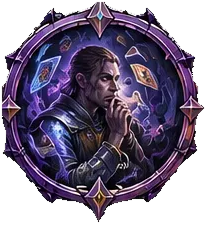
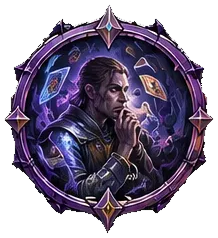
Fix emblem cropping: full badge extent, no neighbor bleed, no interior holes
The fixed-grid-rectangle crop clipped several badges' spikes where they
extended past the naive cell boundary, and diagnosing that revealed
entire rows of badges are connected as one blob where their frames
touch (confirmed: e.g. all 6 badges in row 1 columns 2-7 were a single
connected component) -- a plain per-cell crop can't separate those
correctly.

Replaced the grid crop with watershed segmentation seeded at each
cell's center: floods outward along the shape's own medial structure so
touching badges split at their natural ridge instead of an arbitrary
straight line, giving each badge its true full extent with no sliver of
its neighbor. Also fixed a regression from the same rewrite -- a bright
highlight or compression artifact inside a badge (grayscale, high
brightness) was being misclassified as background wherever it wasn't
re-checked for border-connectivity, punching small transparent holes in
the art; background now only counts if it's connected to the actual
image border, matching the outer-edge cleanup from the previous commit.

diff --git a/cloudflare-worker/relay.js b/cloudflare-worker/relay.js
@@ -1917,7 +1917,7 @@ function sumField(rows, field) {
 // neighboring badge's frame along with the real one. Re-cropped with a
 // nearest-seed (watershed) split instead of a fixed grid, so a touching
 // pixel is assigned to whichever badge it actually belongs to.
-const EMBLEM_CACHE_BUST = "8";
+const EMBLEM_CACHE_BUST = "9";
 function emblemUrl(path) {
   return path ? `${path}?v=${EMBLEM_CACHE_BUST}` : path;
 }
